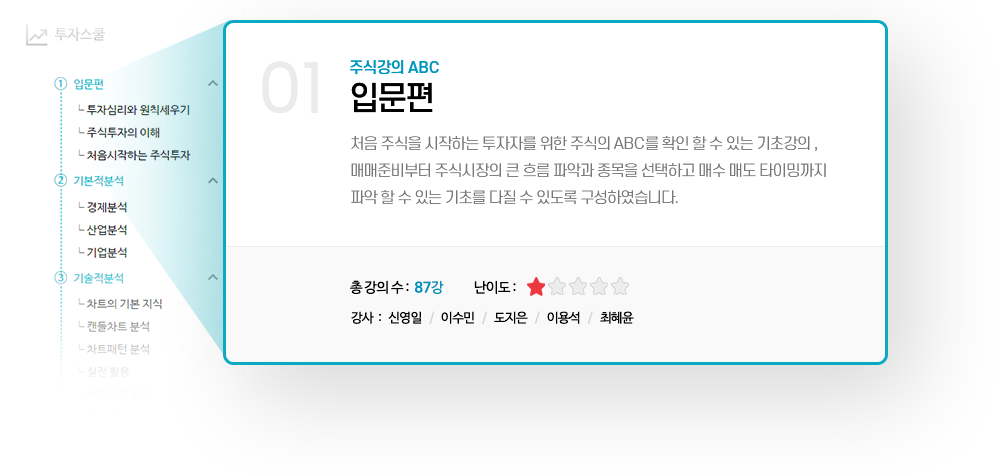
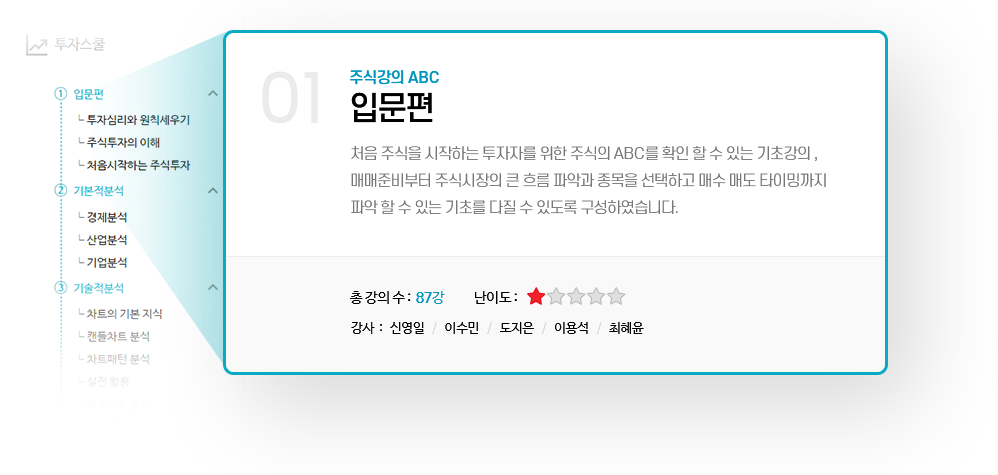
dd

diff --git a/dist/scss/_contents.scss b/dist/scss/_contents.scss
@@ -2,10 +2,10 @@
     position: relative;
     margin-bottom: 200px;
     padding-left: 75px;
-    // * {
-    //     font-family: "NanumBarunGothic", serif;
-    //     font-weight: 400;
-    // }
+    * {
+        font-family: "NanumBarunGothic", serif;
+        font-weight: 400;
+    }
     .contents-area {
         > .container {
             padding: 60px 0 100px;

diff --git a/dist/css/comm.css b/dist/css/comm.css
@@ -2465,6 +2465,11 @@ legend {
   padding-left: 75px;
 }
 
+.main-contents * {
+  font-family: "NanumBarunGothic", serif;
+  font-weight: 400;
+}
+
 .main-contents .contents-area > .container {
   padding: 60px 0 100px;
 }
